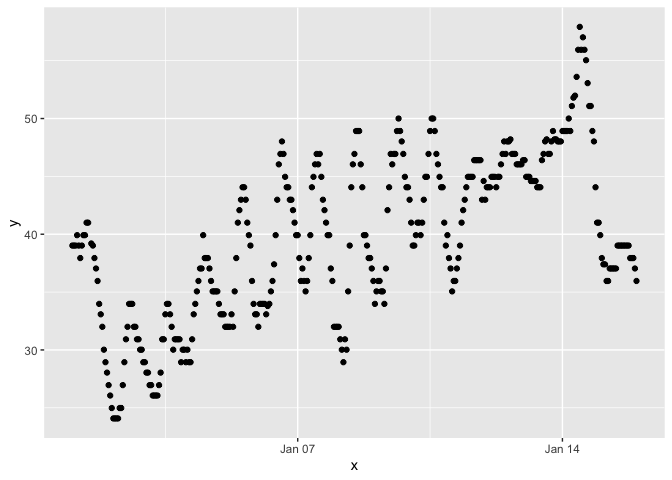
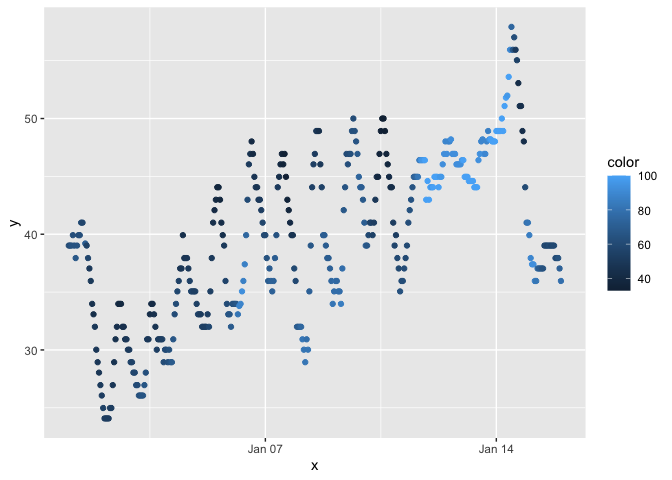
add color to scatterplot on problem 1

diff --git a/p8105_hw1_xz3173.md b/p8105_hw1_xz3173.md
@@ -164,10 +164,11 @@ should help). Describe patterns that are apparent in this plot.
 ``` r
 plot_df = tibble(
   x = early_january_weather$time_hour,
-  y = early_january_weather$temp
+  y = early_january_weather$temp,
+  color = early_january_weather$humid
 )
 
-ggplot(plot_df, aes(x = x, y = y)) + geom_point()
+ggplot(plot_df, aes(x = x, y = y, color = color)) + geom_point()
 ```
 
 ![](p8105_hw1_xz3173_files/figure-gfm/unnamed-chunk-10-1.png)<!-- -->
